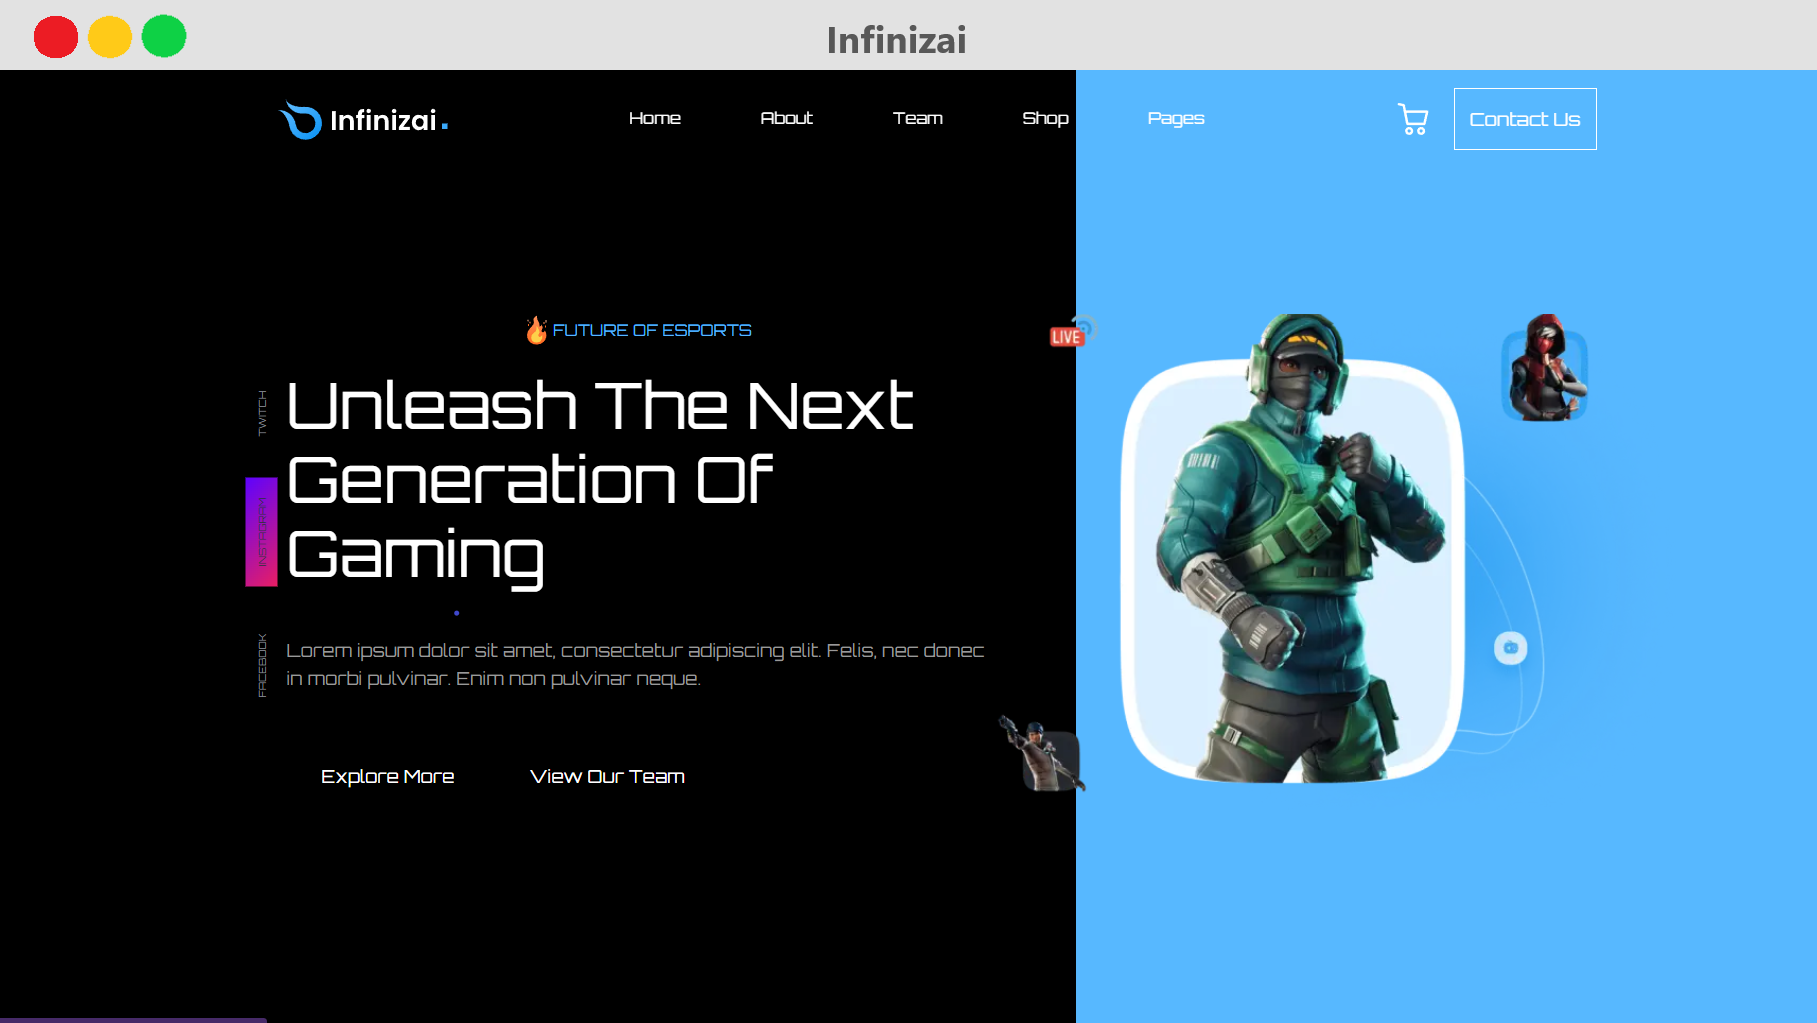
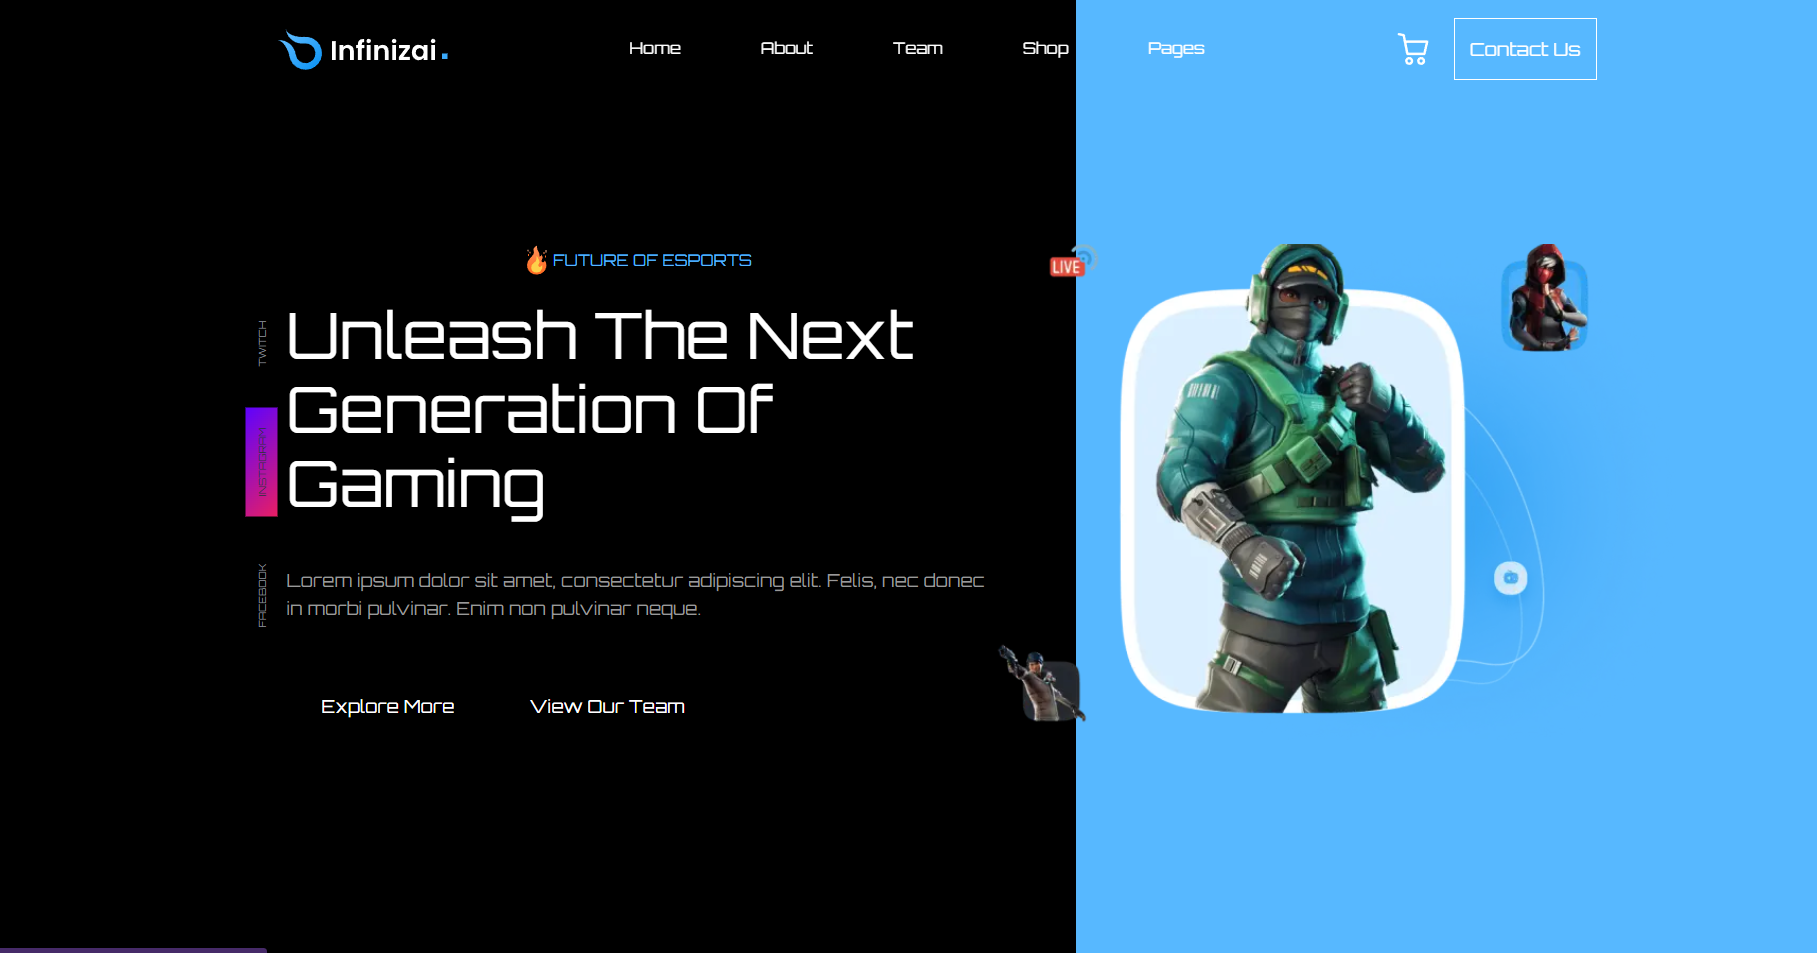
project improvement

diff --git a/src/Blocks/Project-block/ProjectsBlock.jsx b/src/Blocks/Project-block/ProjectsBlock.jsx
@@ -5,12 +5,12 @@ import VantaRings from '../../components/vanta/rings/vanta';
 import { activePage_3_Action } from '../../store/pageReducer';
 import style from "./project-block.module.scss";
 
-import FireMoneyImg_1 from "../../assets/work/FireMoney/FireMoney_1.jpg";
-import HappyImg_1 from "../../assets/work/Happy/HappyProject.png";
+import FireMoneyImg_1 from "../../assets/work/FireMoney/FireMoney.png";
+import HappyImg_1 from "../../assets/work/Happy/Happy.png";
 import Infinizai_1 from "../../assets/work/Infinizai/Infinizal.png";
 
 import Skills from '../../components/skills/Skills';
-import Project from '../../components/project-block/Project';
+import Project from '../../components/project/Project';
 import { fireMoneyArr, happyProjectArr, infinizaiProjectArr } from '../../SkillsArray';
 import Tag from '../../components/tags/Tag';
 
@@ -30,19 +30,25 @@ const ProjectsBlock = () => {
 					Здесь вы можете ознакомиться с моими работами и перейти на страницу проекта в гит хабе.
 				</p>
 				<div className={style.projectList}>
-					<Project 
+					<Project
+						projectName="Fire Money"
 						skillsArr={fireMoneyArr} 
-						imgProject={FireMoneyImg_1}
+						imgProject_1={FireMoneyImg_1}
+						imgProject_2={HappyImg_1}
 						href={"https://github.com/IsaevEgor/Fire-Money"}
 					/>
-					<Project 
+					<Project
+						projectName="H(app)y"
 						skillsArr={happyProjectArr} 
-						imgProject={HappyImg_1}
+						imgProject_1={HappyImg_1}
+						imgProject_2={HappyImg_1}
 						href={"https://github.com/IsaevEgor/H-app-y-Project"}
 					/>
-					<Project 
+					<Project
+						projectName="Infinizai"
 						skillsArr={infinizaiProjectArr} 
-						imgProject={Infinizai_1}
+						imgProject_1={Infinizai_1}
+						imgProject_2={HappyImg_1}
 						href={"https://github.com/IsaevEgor/Infinizal"}
 					/>
 				</div>

diff --git a/src/components/project/Project.jsx b/src/components/project/Project.jsx
@@ -5,10 +5,9 @@ import Skills from '../skills/Skills';
 import Tag from '../tags/Tag';
 import { AwesomeButton } from 'react-awesome-button';
 import { AiFillGithub } from 'react-icons/ai';
-//import "react-awesome-button/dist/styles.css";
-//import 'react-awesome-button/src/styles/themes/theme-rickiest';
+import headerImg from "../../assets/work/panel.png";
 
-const Project = ({skillsArr, imgProject, href}) => {
+const Project = ({skillsArr, imgProject_1, imgProject_2, href, projectName}) => {
 	const [hoverImg, setHoverImg] = useState(Boolean)
 	return (
 		<div className={style.projectItem}>
@@ -17,10 +16,19 @@ const Project = ({skillsArr, imgProject, href}) => {
 				onMouseEnter={() => setHoverImg(true)}
 				onMouseLeave={() => setHoverImg(false)}
 			>
+				<div className={style.imgHeader}>
+					 <span className={style.imageName}>{projectName}</span>
+					<img src={headerImg} alt="panel" className={style.imgPanel}/>
+				</div>
 				<img 
-					src={imgProject} 
-					alt="" 
+					src={imgProject_1} 
+					alt="project" 
 					className={style.img}
+				/>
+				<img 
+					src={imgProject_2} 
+					alt="project" 
+					className={classNames(style.imgSecond, {[style.imgSecondActive] : hoverImg})}
 				/>
 				<div className={classNames(style.skillsProjectBlock, {[style.hoverBlock] : hoverImg})}>
 					{skillsArr.map((item) => (

diff --git a/src/components/project/style.module.scss b/src/components/project/style.module.scss
@@ -1,3 +1,5 @@
+@import "../../variables/variables";
+
 .projectItem{
 	flex: 0 1 48%;
 
@@ -23,14 +25,47 @@
 		transition: 0.3s;
 	}
 }
-.img{
+.imgHeader{
+	position: relative;
+	z-index: 2;
+	width: 100%;
+	padding-bottom: 6%;
+}
+.imageName{
+	position: absolute;
+	top: 50%;
+	left: 50%;
+	transform: translate(-50%, -50%);
+	z-index: 1;
+	font-family: $font-text;
+	font-size: 16px;
+	font-weight: 400;
+	color: rgb(34, 34, 34);
+}
+.imgPanel{
 	position: absolute;
 	top: 0;
 	left: 0;
 	width: 100%;
 	height: 100%;
-
-
+}
+.img{
+	position: absolute;
+	top: 9%;
+	left: 0;
+	width: 100%;
+	height: 100%;
+}
+.imgSecond{
+	position: absolute;
+	top: -100%;
+	left: 0;
+	width: 100%;
+	height: 100%;
+	transition: 0.3s;
+}
+.imgSecondActive {
+	top: 9%;
 }
 .hoverImg{
 	position: relative;

diff --git a/src/components/menu/menu.module.scss b/src/components/menu/menu.module.scss
@@ -1,3 +1,5 @@
+@import "../../variables/variables";
+
 .wrapper{
 	position: absolute;
 	top: 0;
@@ -5,18 +7,24 @@
 	width: 100%;
 }
 .block{
+	position: absolute;
+	right: 0;
 	display: flex;
 	align-items: center;
-	justify-content: flex-end;
+	justify-content: space-around;
+
+	max-width: 768px;
 
 	padding-right: 25px;
 	margin: 15px 0;
 	transition: 0.5s;
+	background-color: rgba(235, 235, 235, 0.068);
+	border-radius: 10px;
 }
 .MenuItem{
 	position: relative;
 	z-index: 2;
-	font-family: "Inter";
+	font-family: $font-text;
 	font-size: 1.2em;
 	font-weight: 600;
 

diff --git a/src/index.css b/src/index.css
@@ -1,4 +1,6 @@
 @import url(https://fonts.googleapis.com/css?family=Inter:100,200,300,regular,500,600,700,800,900);
+@import url(https://fonts.googleapis.com/css?family=Oswald:200,300,regular,500,600,700);
+@import url(https://fonts.googleapis.com/css?family=Noto+Sans:100,100italic,200,200italic,300,300italic,regular,italic,500,500italic,600,600italic,700,700italic,800,800italic,900,900italic);
 
 html, body, div, span, applet, object, iframe,
 h1, h2, h3, h4, h5, h6, p, blockquote, pre,

diff --git a/src/components/tags/style.module.scss b/src/components/tags/style.module.scss
@@ -1,3 +1,5 @@
+@import "../../variables/variables";
+
 .block {
 	position: relative;
 	z-index: 1;
@@ -6,7 +8,7 @@
 	border-radius: 5px;
 	background-color: rgb(32, 32, 32);
 
-	font-family: "Inter";
+	font-family: $font-text;
 	font-size: 22px;
 	color: aliceblue;
 	text-transform: uppercase;

diff --git a/src/components/slider/Slider.tsx b/src/components/slider/Slider.tsx
@@ -38,7 +38,7 @@ const Slider = () => {
 				fillParent={true}
 				organicArrows={true}
 				infinite={false}
-				selected={numSelect}
+				selected={2}
 				transitionDelay={500}
 				mobileTouch={false}
 				customContent={<Menu slideIndex={numSelect} onClick={hadleBlockClick}/>}

diff --git a/src/components/skills/style.module.scss b/src/components/skills/style.module.scss
@@ -1,3 +1,5 @@
+@import "../../variables/variables";
+
 .flexBlock{
 	position: relative;
 	z-index: 1;
@@ -20,7 +22,7 @@
 	padding-right: 5px;
 }
 .textSection{
-	font-family: "Inter";
+	font-family: $font-text;
 	font-size: 16px;
 	line-height: 120%;
 	font-weight: 700;

diff --git a/src/Blocks/Hello-block/helloBlocks.module.scss b/src/Blocks/Hello-block/helloBlocks.module.scss
@@ -1,3 +1,5 @@
+@import "../../variables/variables";
+
 .div{
 	position: absolute;
 	top: 0;
@@ -19,7 +21,7 @@
 	margin: 0 20px;
 
 	text-align: center;
-	font-family: 'Inter';
+	font-family: $font-text;
 	font-size: 32px;
 	font-weight: 400;
 	line-height: 150%;

diff --git a/src/Blocks/Project-block/project-block.module.scss b/src/Blocks/Project-block/project-block.module.scss
@@ -1,3 +1,5 @@
+@import "../../variables/variables";
+
 .wrapper {
 	position: absolute;
 	top: 0;
@@ -14,7 +16,7 @@
 	bottom: 10%;
 }
 .textProject{
-	font-family: "Inter";
+	font-family: $font-text;
 	font-weight: 300;
 	font-size: 22px;
 	line-height: 120%;

diff --git a/src/components/social-button/socialButton.module.scss b/src/components/social-button/socialButton.module.scss
@@ -1,3 +1,5 @@
+@import "../../variables/variables";
+
 .btnBlock{
 	position: absolute;
 	z-index: 2;
@@ -21,7 +23,7 @@
 	justify-content: space-between;
 	align-items: center;
 
-	font-family: "Inter";
+	font-family: $font-text;
 	font-size: 18px;
 	
 	p{

diff --git a/src/components/text/style.module.scss b/src/components/text/style.module.scss
@@ -1,7 +1,9 @@
+@import "../../variables/variables";
+
 .text {
 	position: relative;
 	margin: 0 0 10px;
-	font-family: "Inter";
+	font-family: $font-text;
 	font-size: 22px;
 	font-weight: 300;
 	line-height: 120%;
